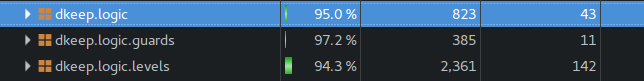
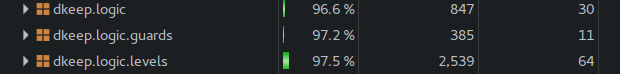
EclEmma >95%

diff --git a/DungeonKeep/src/dkeep/test/TesteKeepLevelLogic.java b/DungeonKeep/src/dkeep/test/TesteKeepLevelLogic.java
@@ -11,6 +11,7 @@ import dkeep.logic.Dungeon;
 import dkeep.logic.MovingObject.MOVEMENT_TYPE;
 import dkeep.logic.Ogre;
 import dkeep.logic.Pair;
+import dkeep.logic.Weapon;
 import dkeep.logic.Dungeon.GAME_STATE;
 import dkeep.logic.levels.InitialLevel;
 import dkeep.logic.levels.KeepLevel;
@@ -25,7 +26,7 @@ public class TesteKeepLevelLogic {
 			{ 'X', ' ', ' ', ' ', ' ', ' ', ' ', ' ', ' ', 'X' }, { 'X', ' ', ' ', ' ', ' ', ' ', ' ', ' ', ' ', 'X' },
 			{ 'X', 'H', ' ', ' ', ' ', ' ', ' ', ' ', ' ', 'X' },
 			{ 'X', 'X', 'X', 'X', 'X', 'X', 'X', 'X', 'X', 'X' }, };
-
+ 
 	@Test
 	public void testMoveIntoOgre() {
 		KeepLevel testLevel = new KeepLevel(testMap);
@@ -35,7 +36,6 @@ public class TesteKeepLevelLogic {
 
 		testLevel.getHero().move(MOVEMENT_TYPE.RIGHT, testMap);
 		testLevel.getHero().move(MOVEMENT_TYPE.RIGHT, testMap);
-		/* testHero.move(MOVEMENT_TYPE.RIGHT, testMap); */
 
 		assertTrue(testLevel.checkOgreCollision());
 
@@ -57,6 +57,124 @@ public class TesteKeepLevelLogic {
 		assertEquals('K', testLevel.getHero().getSymbol());
 
 	}
+	
+	@Test
+	public void testOgreStunned() {
+		
+		char testMapOgreNoPossibleMove[][] = {
+				{ 'X', 'X', 'X', 'X', 'X', 'X', 'X', 'X', 'X', 'X' },
+				{ 'I', ' ', ' ', 'X', 'O', 'X', ' ', ' ', 'k', 'X' },
+				{ 'X', ' ', ' ', ' ', ' ', 'X', ' ', ' ', ' ', 'X' },
+				{ 'X', ' ', ' ', ' ', ' ', ' ', ' ', ' ', ' ', 'X' }, 
+				{ 'X', ' ', ' ', ' ', ' ', ' ', ' ', ' ', ' ', 'X' },
+				{ 'X', ' ', ' ', ' ', ' ', ' ', ' ', ' ', ' ', 'X' },
+				{ 'X', 'X', 'X', ' ', ' ', ' ', ' ', ' ', ' ', 'X' },
+				{ 'X', 'H', ' ', 'X', ' ', ' ', ' ', ' ', ' ', 'X' },
+				{ 'X', 'X', 'X', 'X', 'X', 'X', 'X', 'X', 'X', 'X' }, };
+	 
+
+		//assertEquals(MOVEMENT_TYPE.NONE, testLevel.getCrazyHorde().get(0).getMove());
+		
+		KeepLevel level2 = new KeepLevel(testMapOgreNoPossibleMove);
+		InitialLevel level1 = new InitialLevel();
+
+		Vector<Level> levels = new Vector<>();
+		levels.add(level1);
+		levels.add(level2);
+
+		Dungeon dungeon = new Dungeon(levels);
+		
+		dungeon.game(MOVEMENT_TYPE.DOWN);
+		
+		assertEquals(level1,dungeon.getCurrentLevel()); 
+		 
+		//Next to lever 
+		dungeon.getCurrentLevel().getHero().setX(8);
+		dungeon.getCurrentLevel().getHero().setY(8);
+		
+		assertEquals(8, dungeon.getCurrentLevel().getHero().getX());
+		
+		//Touch lever
+		dungeon.game(MOVEMENT_TYPE.LEFT);
+		assertEquals(false, ((InitialLevel) (dungeon.getCurrentLevel())).isLeverOff());
+		
+		//Take hero next to door
+		dungeon.getCurrentLevel().getHero().setX(5);
+		dungeon.getCurrentLevel().getHero().setY(1);
+		
+		//Pass to keep level
+		GAME_STATE gs = dungeon.game(MOVEMENT_TYPE.LEFT);
+		assertEquals(GAME_STATE.PLAYING, gs);
+		assertEquals(true, (dungeon.getCurrentLevel() instanceof KeepLevel));
+		
+		boolean wokeUp=false;
+		boolean isStunned = false;
+		int i = 100;
+		 
+		int roundsLeftSleeping = dungeon.getKeepLevel().getCrazyHorde().get(0).getRoundsLeftStunned();
+		assertEquals(dungeon.getKeepLevel().getCrazyHorde().get(0).getRoundsLeftStunned(), roundsLeftSleeping);
+		dungeon.getKeepLevel().getCrazyHorde().get(0).setRoundsLeftStunned(3);
+		assertEquals(0, roundsLeftSleeping);
+		dungeon.getKeepLevel().getCrazyHorde().get(0).setStunned(true);
+		assertEquals(true, dungeon.getKeepLevel().getCrazyHorde().get(0).isStunned());
+		
+		while(i-->0 && !wokeUp) {
+			dungeon.game(MOVEMENT_TYPE.LEFT);
+			if(isStunned && !dungeon.getKeepLevel().getCrazyHorde().get(0).isStunned()) wokeUp=true;
+			if(dungeon.getKeepLevel().getCrazyHorde().get(0).isStunned()) {
+				isStunned = true;
+			}
+		}
+		
+		assertNotEquals(0, i);
+	}
+	
+	@Test
+	public void testOgreSymbol() {
+		KeepLevel level2 = new KeepLevel(1);
+		InitialLevel level1 = new InitialLevel();
+
+		Vector<Level> levels = new Vector<>();
+		levels.add(level1);
+		levels.add(level2);
+
+		Dungeon dungeon = new Dungeon(levels);
+		
+		dungeon.game(MOVEMENT_TYPE.DOWN);
+		
+		//Test get stunned symbol
+		level2.getCrazyHorde().get(0).setStunnedSymbol('7');
+		assertEquals('7', level2.getCrazyHorde().get(0).getStunnedSymbol());
+		
+		//Test current symbol stunned
+		level2.getCrazyHorde().get(0).setStunned(true);
+		assertEquals('7',level2.getCrazyHorde().get(0).getSymbol());
+		
+		//Test current symbol not stunned
+		level2.getCrazyHorde().get(0).setStunned(false);
+		level2.getCrazyHorde().get(0).setSymbol('5');
+		assertEquals('5', level2.getCrazyHorde().get(0).getSymbol());
+	
+	}
+	
+	@Test
+	public void testClub() {
+		KeepLevel level2 = new KeepLevel(1);
+		InitialLevel level1 = new InitialLevel();
+
+		Vector<Level> levels = new Vector<>();
+		levels.add(level1);
+		levels.add(level2);
+
+		Dungeon dungeon = new Dungeon(levels);
+		
+		dungeon.game(MOVEMENT_TYPE.DOWN);
+		 
+		Weapon newClub = new Weapon();
+		level2.getCrazyHorde().get(0).setClub(newClub);
+		assertEquals(true, Math.abs(level2.getCrazyHorde().get(0).getX()-level2.getCrazyHorde().get(0).getClub().getX()) <=1); 
+		
+	}
 
 	@Test
 	public void testFailToOpen() {
@@ -70,7 +188,7 @@ public class TesteKeepLevelLogic {
 		assertEquals('I', testMap[1][0]);
 	}
 
-	@Test
+	@Test 
 	public void testOpenDoor() {
 		KeepLevel testLevel = new KeepLevel(testMap);
 

diff --git a/DungeonKeep/src/dkeep/test/TestInitialLevelLogic.java b/DungeonKeep/src/dkeep/test/TestInitialLevelLogic.java
@@ -33,7 +33,7 @@ public class TestInitialLevelLogic {
 		InitialLevel testLevel = new InitialLevel(map);
 
 		Hero hero = testLevel.getHero();
-		assertEquals(new Pair(1, 1), hero.getPosition());
+		assertEquals(new Pair(1, 1), hero.getPosition());  
 
 		hero.move(MOVEMENT_TYPE.DOWN, map);
 		assertEquals(new Pair(2, 1), hero.getPosition());
@@ -395,9 +395,10 @@ public class TestInitialLevelLogic {
 			}
 		}
 
-		assertEquals(true, i < 300);
+		assertEquals(true, i > 0);
 
 	}
+	
 	
 	@Test
 	public void testDrunkenGuardSleeping() {
